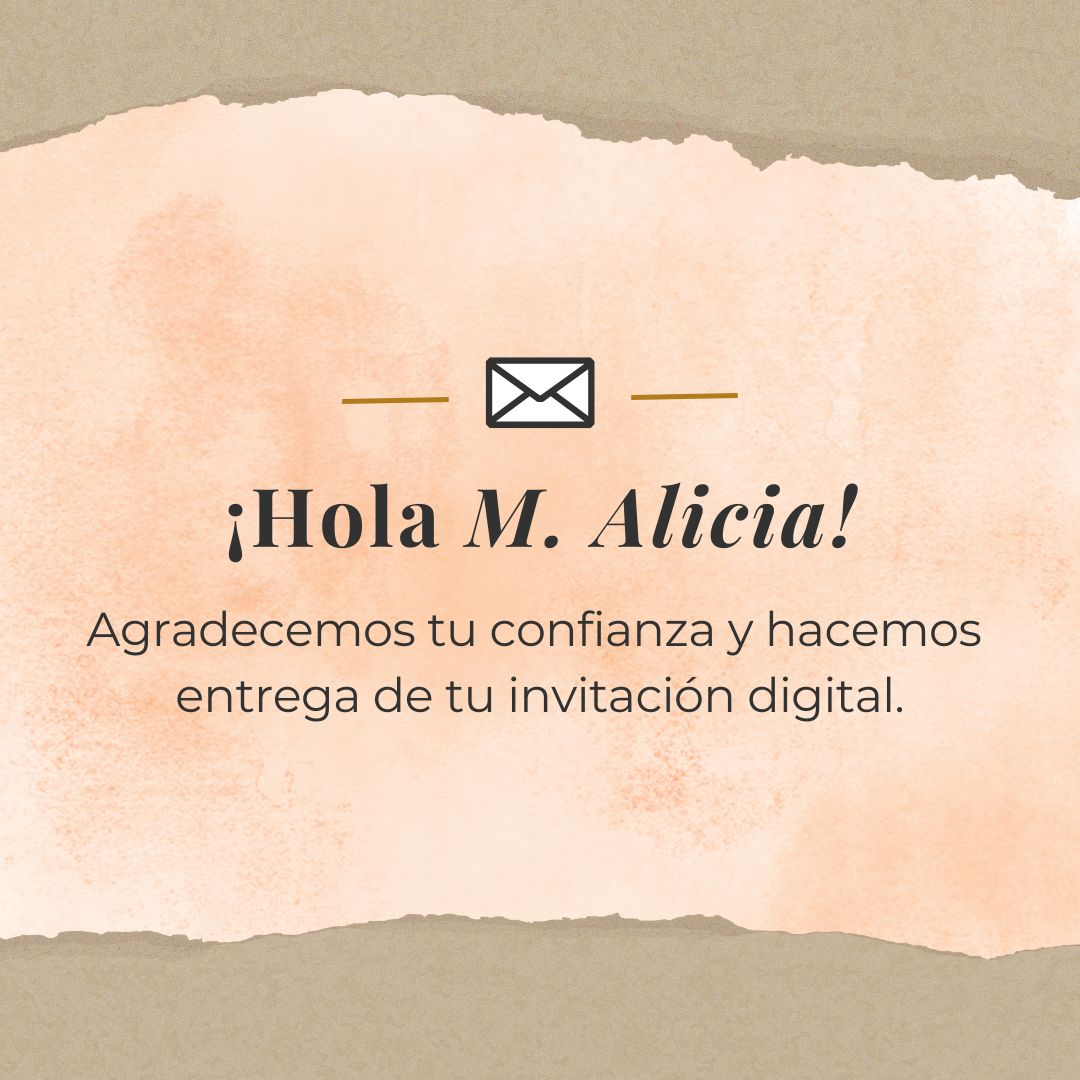
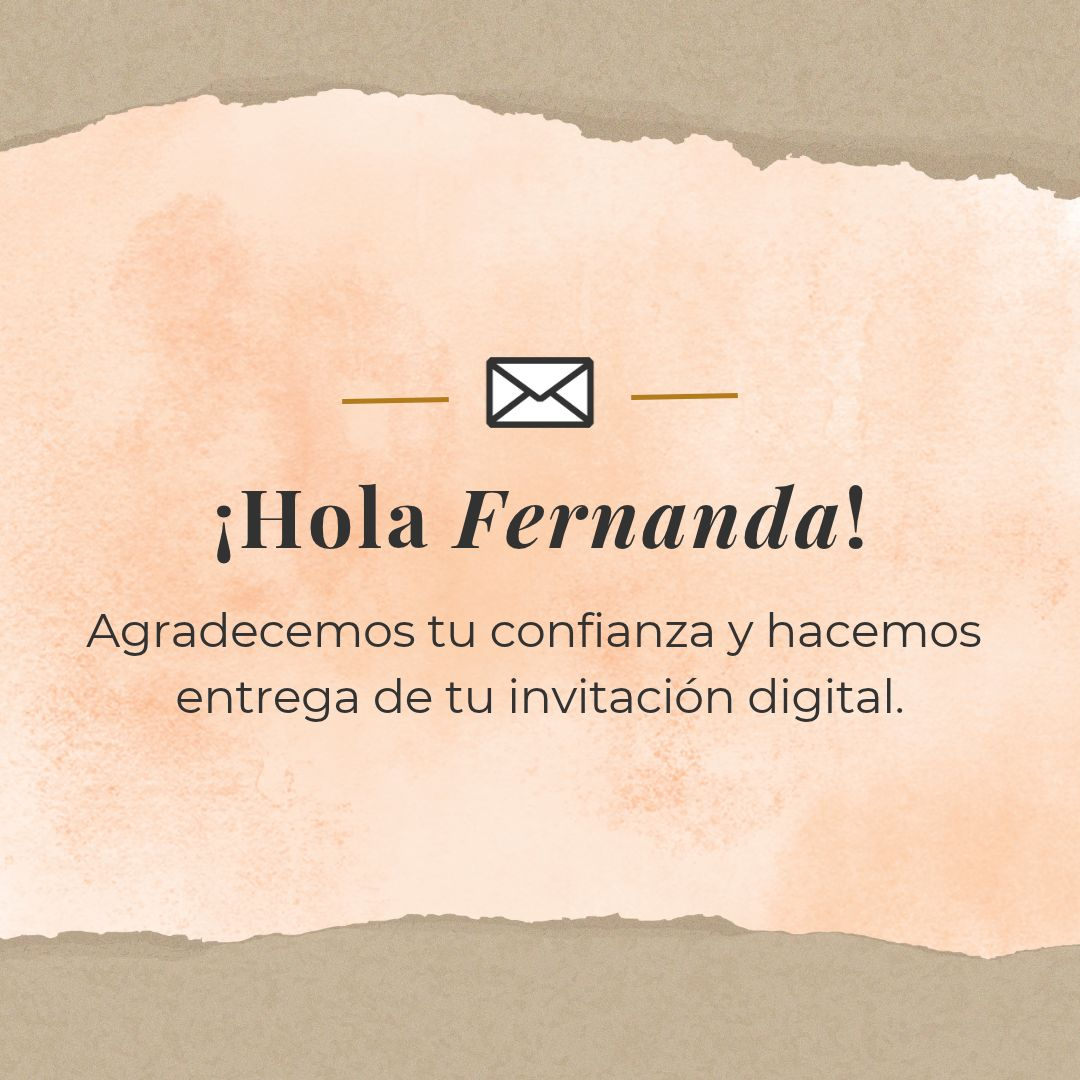
Add files via upload

diff --git a/index.html b/index.html
@@ -165,7 +165,7 @@ background-image: url(img/fondoInicio.png); "  >
                 <ul>
                      <div class="row justify-content-center">
                          <input class="mt-3 col-7" type="text" value="https://mis-xv.github.io/fernandacinahi/pases/inicio1.html" id="target1" readonly>
-                    <button id="boton" class="example2 col-4 col-md-3 mt-3" onclick="copiar()">Copiar</button>
+                    <button id="boton" class="example2 col-4 col-md-3 mt-3" onclick="copiar1()">Copiar</button>
                     <a id="boton3" class=" col-5 col-md-3 mt-3" onclick="personas1()">Ver</a>
                     </div>
                     <br>
@@ -187,7 +187,7 @@ background-image: url(img/fondoInicio.png); "  >
                 <ul>
                    <div class="row justify-content-center">
                          <input class="mt-3 col-7" type="text" value="https://mis-xv.github.io/fernandacinahi/pases/inicio2.html" id="target1" readonly>
-                    <button id="boton" class="example2 col-4 col-md-3 mt-3" onclick="copiar()">Copiar</button>
+                    <button id="boton" class="example2 col-4 col-md-3 mt-3" onclick="copiar2()">Copiar</button>
                     <a id="boton3" class=" col-5 col-md-3 mt-3" onclick="personas2()">Ver</a>
                     </div>
                     <br>
@@ -208,7 +208,7 @@ background-image: url(img/fondoInicio.png); "  >
                 <ul>
                    <div class="row justify-content-center">
                          <input class="mt-3 col-7" type="text" value="https://mis-xv.github.io/fernandacinahi/pases/inicio3.html" id="target1" readonly>
-                    <button id="boton" class="example2 col-4 col-md-3 mt-3" onclick="copiar()">Copiar</button>
+                    <button id="boton" class="example2 col-4 col-md-3 mt-3" onclick="copiar3()">Copiar</button>
                     <a id="boton3" class=" col-5 col-md-3 mt-3" onclick="personas3()">Ver</a>
                     </div>
                     <br>
@@ -228,7 +228,7 @@ background-image: url(img/fondoInicio.png); "  >
                 <ul>
                     <div class="row justify-content-center">
                          <input class="mt-3 col-7" type="text" value="https://mis-xv.github.io/fernandacinahi/pases/inicio4.html" id="target1" readonly>
-                    <button id="boton" class="example2 col-4 col-md-3 mt-3" onclick="copiar()">Copiar</button>
+                    <button id="boton" class="example2 col-4 col-md-3 mt-3" onclick="copiar4()">Copiar</button>
                     <a id="boton3" class=" col-5 col-md-3 mt-3" onclick="personas4()">Ver</a>
                     </div>
                     <br>
@@ -248,7 +248,7 @@ background-image: url(img/fondoInicio.png); "  >
                 <ul>
                     <div class="row justify-content-center">
                          <input class="mt-3 col-7" type="text" value="https://mis-xv.github.io/fernandacinahi/pases/inicio5.html" id="target1" readonly>
-                    <button id="boton" class="example2 col-4 col-md-3 mt-3" onclick="copiar()">Copiar</button>
+                    <button id="boton" class="example2 col-4 col-md-3 mt-3" onclick="copiar5()">Copiar</button>
                     <a id="boton3" class=" col-5 col-md-3 mt-3" onclick="personas5()">Ver</a>
                     </div>
                     <br>
@@ -268,7 +268,7 @@ background-image: url(img/fondoInicio.png); "  >
                 <ul>
                    <div class="row justify-content-center">
                          <input class="mt-3 col-7" type="text" value="https://mis-xv.github.io/fernandacinahi/pases/inicio6.html" id="target1" readonly>
-                    <button id="boton" class="example2 col-4 col-md-3 mt-3" onclick="copiar()">Copiar</button>
+                    <button id="boton" class="example2 col-4 col-md-3 mt-3" onclick="copiar6()">Copiar</button>
                     <a id="boton3" class=" col-5 col-md-3 mt-3" onclick="personas6()">Ver</a>
                     </div>
                     <br>
@@ -288,7 +288,7 @@ background-image: url(img/fondoInicio.png); "  >
                 <ul>
                    <div class="row justify-content-center">
                          <input class="mt-3 col-7" type="text" value="https://mis-xv.github.io/fernandacinahi/pases/inicio7.html" id="target1" readonly>
-                    <button id="boton" class="example2 col-4 col-md-3 mt-3" onclick="copiar()">Copiar</button>
+                    <button id="boton" class="example2 col-4 col-md-3 mt-3" onclick="copiar7()">Copiar</button>
                     <a id="boton3" class=" col-5 col-md-3 mt-3" onclick="personas7()">Ver</a>
                     </div>
                     <br>
@@ -308,7 +308,7 @@ background-image: url(img/fondoInicio.png); "  >
                 <ul>
                     <div class="row justify-content-center">
                          <input class="mt-3 col-7" type="text" value="https://mis-xv.github.io/fernandacinahi/pases/inicio8.html" id="target1" readonly>
-                    <button id="boton" class="example2 col-4 col-md-3 mt-3" onclick="copiar()">Copiar</button>
+                    <button id="boton" class="example2 col-4 col-md-3 mt-3" onclick="copiar8()">Copiar</button>
                     <a id="boton3" class=" col-5 col-md-3 mt-3" onclick="personas8()">Ver</a>
                     </div>
                     <br>
@@ -328,7 +328,7 @@ background-image: url(img/fondoInicio.png); "  >
                 <ul>
                     <div class="row justify-content-center">
                          <input class="mt-3 col-7" type="text" value="https://mis-xv.github.io/fernandacinahi/pases/inicio9.html" id="target1" readonly>
-                    <button id="boton" class="example2 col-4 col-md-3 mt-3" onclick="copiar()">Copiar</button>
+                    <button id="boton" class="example2 col-4 col-md-3 mt-3" onclick="copiar9()">Copiar</button>
                     <a id="boton3" class=" col-5 col-md-3 mt-3" onclick="personas9()">Ver</a>
                     </div>
                    
